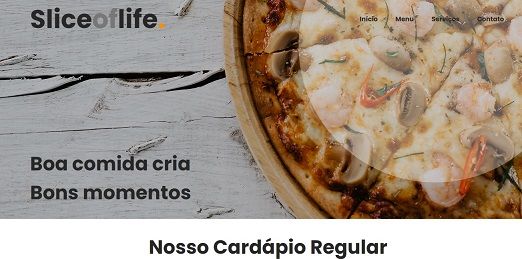
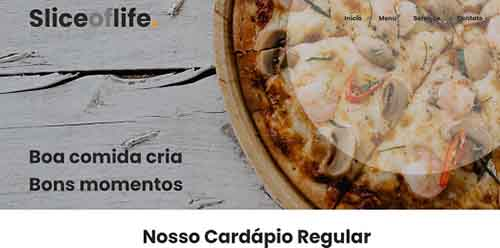
melhoria no código de renderização dos slides reduzindo repetição de código

diff --git a/src/pages/Games/index.tsx b/src/pages/Games/index.tsx
@@ -1,65 +1,74 @@
 import Slider from '../../components/Slider';
 import GamesBig from '/GamesBig.svg'
 
+interface Ititle {
+	id: number;
+	linkGit: string;
+	img: string;
+	title: string;
+	description: string;
+	repository: string;
+	figma: string;
+	alt: string;
+}
+
 export default function Games() {
 
-    const gameItems = [
-        {
-            id: 5,
-            linkGit: 'https://gothmate.github.io/Vampire-SuperTrunfo/',
-            img: 'https://gothmate.github.io/assets/trunfo.png',
-            title: 'Vampire Card-Game',
-            description:
-                'Vampire: The Masquerade Role Playing Game in a Supertramp-like card game based in Rio de Janeiro by night, on sale at DrivethruRPG.',
-            repository: 'https://github.com/gothmate/Vampire-SuperTrunfo',
-            figma: '',
-            alt: 'Vampire Card Game'
-        },
-        {
-            id: 6,
-            linkGit: 'https://gothmate.github.io/rock-paper-scissors_JS/',
-            img: 'https://gothmate.github.io/assets/rps.jpg',
-            title: 'Rock-Paper-Scissors',
-            description:
-                'Rock-Paper-Scissors Game made in a challenge from Frontend Mentor.',
-            repository: 'https://github.com/gothmate/rock-paper-scissors_JS',
-            figma: '',
-            alt: 'time-tracking-dashboard',
-        },
-        {
-        id: 7,
-        linkGit: 'https://gothmate.github.io/snake_game/',
-        img: 'https://gothmate.github.io/gothmate_portifolio/assets/snake.jpg',
-        title: 'Snake Game',
-        description:
-            'The classic snake game written in JavaScript vanilla.',
-        repository: 'https://github.com/gothmate/snake_game',
-        figma: '',
-        alt: 'snake game'
-        },
-        {
-            id: 8,
-            linkGit: 'https://gothmate.github.io/tictactoe/',
-            img: 'https://user-images.githubusercontent.com/16990753/219168416-d29c48ab-50ff-4a70-9fce-2353a47175d4.png',
-            title: 'Tic Tac Toe',
-            description: 'Digital game based on the famous tic tac toe.',
-            repository: 'https://github.com/gothmate/tictactoe',
-            figma: '',
-            alt: 'Tic Tac Toe',
-        },
-    ] 
+    const gameItems: Ititle[] = [
+			{
+				id: 5,
+				linkGit: 'https://gothmate.github.io/Vampire-SuperTrunfo/',
+				img: 'https://gothmate.github.io/assets/trunfo.png',
+				title: 'Vampire Card-Game',
+				description:
+					'Vampire: The Masquerade Role Playing Game in a Supertramp-like card game based in Rio de Janeiro by night, on sale at DrivethruRPG.',
+				repository: 'https://github.com/gothmate/Vampire-SuperTrunfo',
+				figma: '',
+				alt: 'Vampire Card Game',
+			},
+			{
+				id: 6,
+				linkGit: 'https://gothmate.github.io/rock-paper-scissors_JS/',
+				img: 'https://gothmate.github.io/assets/rps.jpg',
+				title: 'Rock-Paper-Scissors',
+				description:
+					'Rock-Paper-Scissors Game made in a challenge from Frontend Mentor.',
+				repository: 'https://github.com/gothmate/rock-paper-scissors_JS',
+				figma: '',
+				alt: 'Rock-Paper-Scissors',
+			},
+			{
+				id: 7,
+				linkGit: 'https://gothmate.github.io/snake_game/',
+				img: 'https://gothmate.github.io/gothmate_portifolio/assets/snake.jpg',
+				title: 'Snake Game',
+				description: 'The classic snake game written in JavaScript vanilla.',
+				repository: 'https://github.com/gothmate/snake_game',
+				figma: '',
+				alt: 'snake game',
+			},
+			{
+				id: 8,
+				linkGit: 'https://gothmate.github.io/tictactoe/',
+				img: 'https://user-images.githubusercontent.com/16990753/219168416-d29c48ab-50ff-4a70-9fce-2353a47175d4.png',
+				title: 'Tic Tac Toe',
+				description: 'Digital game based on the famous tic tac toe.',
+				repository: 'https://github.com/gothmate/tictactoe',
+				figma: '',
+				alt: 'Tic Tac Toe',
+			},
+		]; 
 
     return (
-        <section className="pageContainer" id="games">
-            <div className="bgCover"></div>
-            <img className="games big" src={GamesBig} alt="games" />
-            <div className="bloco">
-                <div className="texto">
-                    <h1>Games</h1>
-                    <Slider games={gameItems} />
-                </div>
-
-            </div>
-        </section>
-    );
+			<section className='pageContainer' id='games'>
+				<div className='bgCover'></div>
+				<img className='games big' src={GamesBig} alt='games' />
+				<div className='bloco'>
+					<div className='texto'>
+						<h1>Games</h1>
+						<Slider games={gameItems} />
+					</div>
+				</div>
+			</section>
+		);
 }

diff --git a/src/components/Slider/index.tsx b/src/components/Slider/index.tsx
@@ -2,77 +2,70 @@ import './index.sass';
 import './index.css';
 import { useEffect, useState } from 'react';
 
-export default function Slider({works, games}: { works?: any[], games?: any[]}) {
+
+export default function Slider({works, games}: any){
 	const [controller, setController] = useState('slide-controller');
 	const [slide, setSlide] = useState('slide');
 	const [list, setList] = useState('slides-list');
 
-	function controllerConnect(): void {
+	function controllerConnect() {
 		if (works) {
-			setController('slide-controller')
-			setSlide('slide')
-			setList('slides-list')
-		} 
-		if (games) {
-			setController('slide-controller2')
-			setSlide('slide2')
-			setList('games-list')
+			setController('slide-controller');
+			setSlide('slide');
+			setList('slides-list');
+		}
+		if(games) {
+			setController('slide-controller2');
+			setSlide('slide2');
+			setList('games-list');
 		}
 	}
 
-	useEffect(() => controllerConnect(), []);
+	function renderItem(el: any) {
+		return (
+			<li className={slide} key={el.id}>
+				<a href={el.linkGit} target='_blank'>
+					<img src={el.img} alt={el.alt} />
+				</a>
+				<div className='textcar'>
+					<h2>{el.title}</h2>
+					<p>{el.description}</p>
+					<a href={el.repository} target='_blank'>
+						<img src='/GitBranch.svg' alt='Github link' />
+					</a>
+					{el.figma != '' ? (
+						<a href={el.figma} target='_blank'>
+							<img src='/FigmaLogo.svg' alt='Figma link' />
+						</a>
+					) : (
+						''
+					)}
+				</div>
+			</li>
+		);
+	}
+
+	useEffect(() => {
+		controllerConnect();
+	}, []);
 
 	return (
 		<div className='container'>
-			<input type='radio' className={controller} name={slide} /> 
-			<input type='radio' className={controller} name={slide} /> 
-			<input type='radio' className={controller} name={slide} /> 
-			<input type='radio' className={controller} name={slide} /> 
+			{controller &&
+				new Array(4)
+					.fill(null)
+					.map((_, index) => (
+						<input
+							key={index}
+							type='radio'
+							className={controller}
+							name={slide}
+						/>
+					))}
 
 			<div className='slide-show'>
 				<ul className={list}>
-					{works?.map((el: any) => (
-						<li className='slide' key={el.id}>
-							<a href={el.linkGit} target='_blank'>
-								<img src={el.img} alt={el.alt} />
-							</a>
-							<div className='textcar'>
-								<h2>{el.title}</h2>
-								<p>{el.description}</p>
-								<a href={el.repository} target='_blank'>
-									<img src='/GitBranch.svg' alt='Github link' />
-								</a>
-								{el.figma != '' ? (
-									<a href={el.figma} target='_blank'>
-										<img src='/FigmaLogo.svg' alt='Figma link' />
-									</a>
-								) : (
-									''
-								)}
-							</div>
-						</li>
-					))}
-					{games?.map((el: any) => (
-						<li className='slide2' key={el.id}>
-							<a href={el.linkGit} target='_blank'>
-								<img src={el.img} alt={el.alt} />
-							</a>
-							<div className='textcar'>
-								<h2>{el.title}</h2>
-								<p>{el.description}</p>
-								<a href={el.repository} target='_blank'>
-									<img src='/GitBranch.svg' alt='Github link' />
-								</a>
-								{el.figma != '' ? (
-									<a href={el.figma} target='_blank'>
-										<img src='/FigmaLogo.svg' alt='Figma link' />
-									</a>
-								) : (
-									''
-								)}
-							</div>
-						</li>
-					))}
+					{(works || games).map((el: any) => renderItem(el))}
 				</ul>
 			</div>
 		</div>

diff --git a/src/components/navigator/index.tsx b/src/components/navigator/index.tsx
@@ -19,19 +19,52 @@ export function Navigator(props: NavigatorProps) {
     const [handleActive, setHandleActive] = useState('HOME')
 
     return (
-        <aside>
-            <nav className="navigation">
-                <div className="menu">
-                    <ul>
-                        <NavItems onClick={() => setHandleActive('HOME')} isActive={handleActive === 'HOME'} link="#home" item="HOME" image={Home} />
-                        <NavItems onClick={() => setHandleActive('WORKS')} isActive={handleActive === 'WORKS'} link="#works" item="WORKS" image={Works}/>
-                        <NavItems onClick={() => setHandleActive('GAMES')} isActive={handleActive === 'GAMES'} link="#games" item="GAMES" image={Games}/>
-                        <NavItems onClick={() => setHandleActive('GITHUB')} isActive={handleActive === 'GITHUB'} link="#github" item="GITHUB" image={Github}/>
-                        <NavItems onClick={() => setHandleActive('CONTACT')} isActive={handleActive === 'CONTACT'} link="#contatos" item="CONTACT" image={GetInTouch} />
-                        <div className="indicator"></div>
-                    </ul>
-                </div>
-            </nav>
-        </aside>
-    );
+			<aside>
+				<nav className='navigation'>
+					<div className='menu'>
+						<ul>
+							<NavItems
+								onClick={() => setHandleActive('HOME')}
+								isActive={handleActive === 'HOME'}
+								link='#home'
+								item='HOME'
+								image={Home}
+							/>
+							<NavItems
+								onClick={() => setHandleActive('WORKS')}
+								isActive={handleActive === 'WORKS'}
+								link='#works'
+								item='WORKS'
+								image={Works}
+							/>
+							<NavItems
+								onClick={() => setHandleActive('GAMES')}
+								isActive={handleActive === 'GAMES'}
+								link='#games'
+								item='GAMES'
+								image={Games}
+							/>
+							<NavItems
+								onClick={() => setHandleActive('GITHUB')}
+								isActive={handleActive === 'GITHUB'}
+								link='#github'
+								item='GITHUB'
+								image={Github}
+							/>
+							<NavItems
+								onClick={() => setHandleActive('CONTACT')}
+								isActive={handleActive === 'CONTACT'}
+								link='#contatos'
+								item='CONTACT'
+								image={GetInTouch}
+							/>
+							<div
+								className='indicator'
+								aria-label='Marcador de acesso do Menu'
+							></div>
+						</ul>
+					</div>
+				</nav>
+			</aside>
+		);
 }

diff --git a/src/pages/Works/index.tsx b/src/pages/Works/index.tsx
@@ -3,9 +3,19 @@ import Slider from '../../components/Slider';
 import WorksBig from '/Works.svg'
 import Rain from '/Raindrops.gif'
 
+interface Ititle {
+    id: number;
+    linkGit: string;
+    img: string;
+    title: string;
+    description: string;
+    repository: string;
+    figma: string;
+    alt: string;
+}
 
 export default function Works() {
-  const workItems = [
+  const workItems: Ititle[] = [
 		{
 			id: 1,
 			linkGit: 'https://gothmate.github.io/shadyrhymesdesign/',
@@ -57,15 +67,15 @@ export default function Works() {
 	]; 
 
   return (
-    <section className="pageContainer" id="works">
-      <img className="works big" src={WorksBig} alt="works" />
-      <img className="rain" src={Rain} alt="background" />
-      <div className="bloco">
-        <div className="texto">
-          <h1>Works</h1>
-          <Slider works={workItems} /> 
-        </div>
-      </div>
-    </section>
-  )
+		<section className='pageContainer' id='works'>
+			<img className='works big' src={WorksBig} alt='works' />
+			<img className='rain' src={Rain} alt='background' />
+			<div className='bloco'>
+				<div className='texto'>
+					<h1>Works</h1>
+					<Slider works={workItems} />
+				</div>
+			</div>
+		</section>
+	);
 }

diff --git a/src/main.sass b/src/main.sass
@@ -275,3 +275,10 @@ section
       max-width: 83%
       & .repositories
         font-size: 0.65rem
+  #home
+    & .bloco
+      border: 1px solid red
+      flex-direction: column-reverse 
+      max-width: 80vw
+      margin-left: 50%
+      z-index: -100

diff --git a/src/components/Slider/index.css b/src/components/Slider/index.css
@@ -22,7 +22,7 @@
 	--selected-item: 1;
 }
 
-.slide-controlle2:nth-child(3):checked ~ .slide-show .games-list {
+.slide-controller2:nth-child(3):checked ~ .slide-show .games-list {
 	--selected-item: 2;
 }
 
